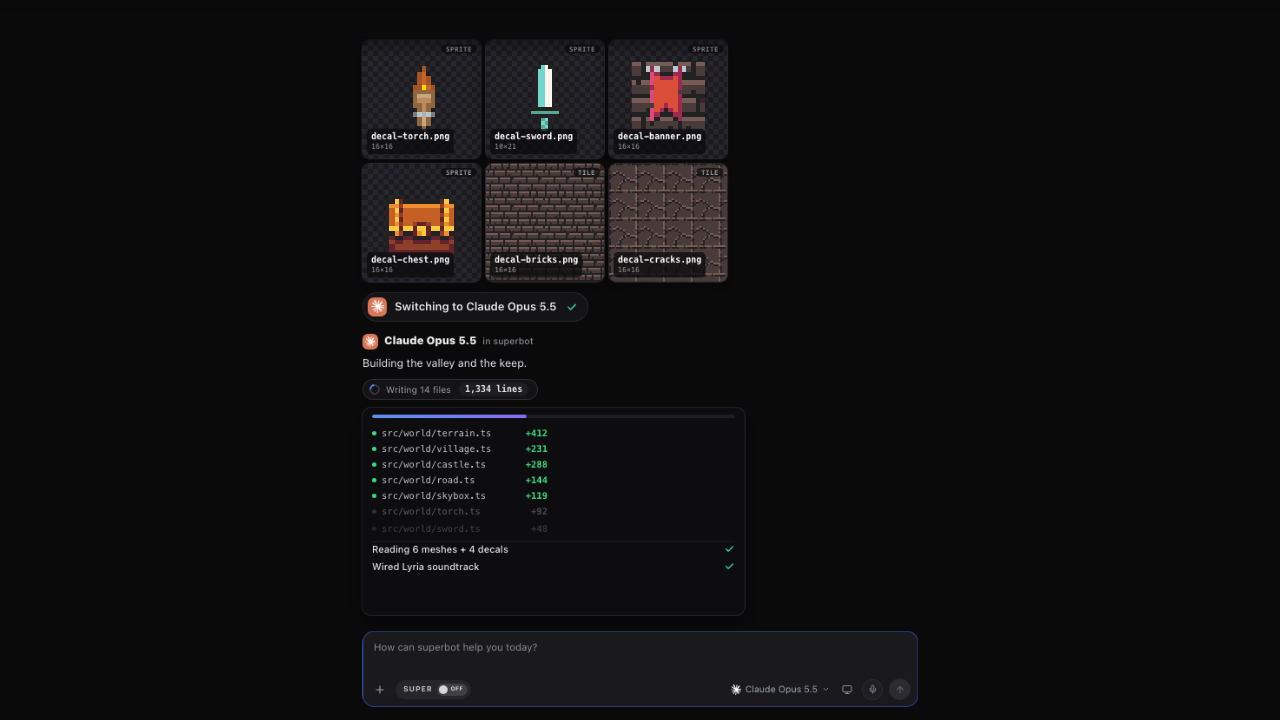
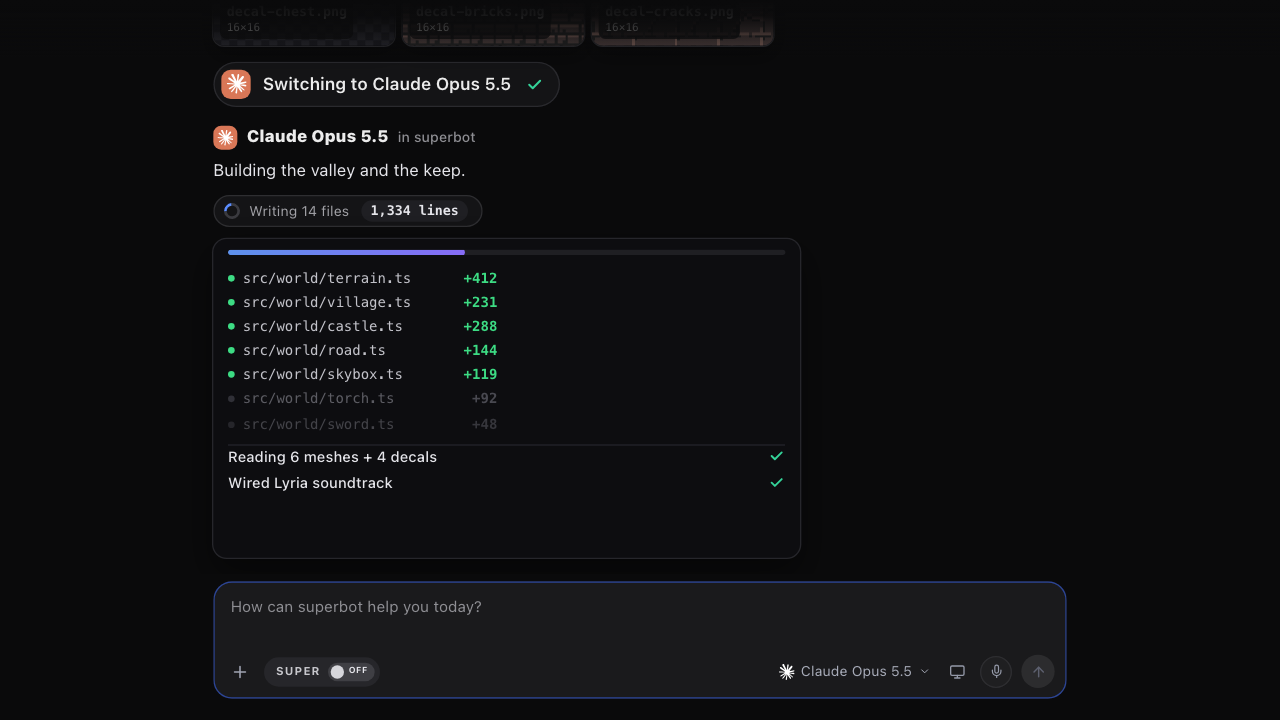
fantasy90s ad 042670d1: frame the thread like one-agent-full-degen (no empty sides), drop the switch zoom-ins

diff --git a/animations/fantasy90s-every-model-superbot-042670d1/scenes/tabs.js b/animations/fantasy90s-every-model-superbot-042670d1/scenes/tabs.js
@@ -5,29 +5,25 @@
 // (tabs-assets/chat.js, ?v=1..3 picks the routing). render(lt) is a pure function of local time. The scene keeps the id "tabs" so the hub's
 // generated stylesheets (scoped under #s-tabs) apply unchanged.
 import { hubMarkup } from './tabs-assets/hub-markup.js';
-import { mountChat, renderChat, switchPunch, BEATS, CHAT_T0, CHAT_END } from './tabs-assets/chat.js?v=13';
-import { clamp, lerp, seg, outCubic, inOutCubic } from '../lib.js';
+import { mountChat, renderChat, BEATS, CHAT_T0, CHAT_END } from './tabs-assets/chat.js?v=14';
+import { lerp, seg, outCubic, inOutCubic } from '../lib.js';
 
 const asset = (f) => new URL('./tabs-assets/' + f, import.meta.url).href;
 const H = 1080;
 const FIRST = BEATS[0].k;
-// the camera punch at each model switch: +20% zoom, leaning PUNCH_LEAN of the way to the routing chip column
-const PUNCH_AMP = 0.2, PUNCH_LEAN = 0.4;
 
 let el = null;
 
 // the design box: a thread-wide hub, scaled so it fills the frame width (narrow ratios keep a readable column)
 function geo(W) {
   if (el.geo && el.geo.W === W) return el.geo;
-  // pulled back far enough that every sent ask stays in frame through its whole answer (the DoorDash order is
-  // the tallest), so the thread lays out wider than the reference's 960
-  const DW = Math.max(560, Math.min(1480, W / 1.3));
+  // framed like one-agent-full-degen: the thread column fills the frame instead of floating in empty sides
+  const DW = Math.max(560, Math.min(960, W / 2));
   const k = W / DW, DH = H / k;
   el.site.style.width = DW + 'px';
   el.site.style.height = DH.toFixed(3) + 'px';
   el.site.style.setProperty('--dw', DW + 'px');
   el.geo = { W, DW, DH, k, lift: null };
-  if (el.chat) el.chat.refocus();  // the chip column moved with the design box
   return el.geo;
 }
 
@@ -80,18 +76,8 @@ export default {
     // camera: pushed in on the empty state, easing out once the thread starts
     // (a narrow column already fills the frame, so it pushes in less)
     const z0 = g.DW < 700 ? 1.08 : 1.2, z1 = g.DW < 700 ? 1.04 : 1.1;
-    const zBase = lerp(z0, z1, inOutCubic(seg(t, 0, CHAT_T0))) * lerp(1, 1 / z1, inOutCubic(seg(t, FIRST.send - 0.1, FIRST.send + 0.7)));
-    // on every model switch the camera punches in and glides back out (chat.js switchPunch). The pivot is a
-    // blend of the frame centre and the routing chip's column, clamped to the visible window, and slides down
-    // to the live bottom edge as the punch rises — so the newest message stays put and nothing is ever shown
-    // past the design box, while the older turns ride up and fade off the top (.ask-edge).
-    const punch = switchPunch(el.chat, t);
-    const z = zBase * (1 + PUNCH_AMP * punch);
-    const s = g.k * z, halfW = (W / 2) / s, halfH = (H / 2) / s;
-    const fx = el.chat.focus == null ? g.DW / 2 : el.chat.focus;
-    const px = clamp(lerp(g.DW / 2, fx, punch * PUNCH_LEAN), halfW, g.DW - halfW);
-    const py = clamp(lerp(g.DH / 2, g.DH - halfH, punch), halfH, g.DH - halfH);
-    el.site.style.transform = `translate(${(W / 2).toFixed(2)}px,${(H / 2).toFixed(2)}px) scale(${s.toFixed(5)}) translate(${(-px).toFixed(2)}px,${(-py).toFixed(2)}px)`;
+    const z = lerp(z0, z1, inOutCubic(seg(t, 0, CHAT_T0))) * lerp(1, 1 / z1, inOutCubic(seg(t, FIRST.send - 0.1, FIRST.send + 0.7)));
+    el.site.style.transform = `translate(${(W / 2).toFixed(2)}px,${H / 2}px) scale(${(g.k * z).toFixed(5)}) translate(${(-g.DW / 2).toFixed(2)}px,${(-g.DH / 2).toFixed(2)}px)`;
 
     // empty state -> thread: the composer glides down to the bottom and the greeting lifts away
     const drop = inOutCubic(seg(t, FIRST.send - 0.08, FIRST.send + 0.42));

diff --git a/animations/fantasy90s-every-model-superbot-042670d1/scenes/tabs-assets/chat.js b/animations/fantasy90s-every-model-superbot-042670d1/scenes/tabs-assets/chat.js
@@ -131,19 +131,6 @@ function timeBeats(asks) {
 export const BEATS = timeBeats(VARIANT);
 export const CHAT_END = BEATS[BEATS.length - 1].k.T.end + 0.2;
 
-// the camera punch (scenes/tabs.js) that emphasises every model switch: it eases in over the chip's own
-// resolve (PUNCH_IN), holds while the app answers, then glides back out from PUNCH_HOLD after the reply
-// until PUNCH_OUT later. A product of two clamped easings, so it is a pure, continuous function of t.
-export const PUNCH_IN = 0.32, PUNCH_HOLD = 0.15, PUNCH_OUT = 0.85;
-export function switchPunch(c, t) {
-  let amt = 0;
-  for (const p of c.punch) {
-    const a = inOutCubic(seg(t, p.sw, p.sw + PUNCH_IN)) * (1 - inOutCubic(seg(t, p.out, p.out + PUNCH_OUT)));
-    if (a > amt) amt = a;
-  }
-  return amt;
-}
-
 const SB_MARK = '<i class="sbm sbm-c"></i><i class="sbm sbm-m"></i><i class="sbm sbm-w"></i>';
 export const OK = '<svg class="qc-ok" viewBox="0 0 24 24"><path d="M5 12.5l4.5 4.5L19 7.5"/></svg>';
 const el = (html) => { const t = document.createElement('template'); t.innerHTML = html.trim(); return t.content.firstElementChild; };
@@ -189,20 +176,6 @@ export function mountChat(hub) {
   // scroll marks: after each time, the feed's fold glides to that element's bottom
   const scroll = beats.flatMap((b) => [...(b.u ? [[b.k.send, b.u]] : []), ...b.sws.map((s) => [s.c.sw, s.w]), [b.k.reply, b.who], ...b.inst.marks]).sort((x, y) => x[0] - y[0]);
 
-  // one camera punch per routing chip, released PUNCH_HOLD after the app answers (scenes/tabs.js reads both)
-  const punch = beats.flatMap((b) => b.sws.map((s) => ({ sw: s.c.sw, out: b.k.reply + PUNCH_HOLD })));
-  // the routing chip's column centre in the site's layout px, where the camera leans at each switch. Read
-  // through offsetParent, so the camera transform and the thread's scroll do not move it: a constant for
-  // one layout, which is what keeps the punch a pure function of t. refocus() reruns when the frame resizes.
-  const site = hub.closest('.sbsite');
-  const focusX = () => {
-    const chip = beats[0].sws[0] && beats[0].sws[0].sw;
-    if (!chip || !site) return null;
-    let x = 0, n = chip;
-    while (n && n !== site) { x += n.offsetLeft; n = n.offsetParent; }
-    return n === site ? x + chip.offsetWidth / 2 : null;
-  };
-
   // the composer's platform chip names the model, then follows the routed app
   const plat = hub.querySelector('.rc-plat');
   const cat = plat.querySelector('.rc-cat');
@@ -217,11 +190,10 @@ export function mountChat(hub) {
 
   const ph = hub.querySelector('.rc-ph');
   const chat = {
-    hub, pointer, feed, inner, beats, scroll, punch, focus: null, refocus() { chat.focus = focusX(); },
+    hub, pointer, feed, inner, beats, scroll,
     plat, pIcon, pImg, pMark, pLabel,
     ph, send: hub.querySelector('.rc-send'), phText: ph.textContent, lastPh: null, lastApp: 'codex',
   };
-  chat.refocus();
   return chat;
 }
 

diff --git a/animations/fantasy90s-every-model-superbot-042670d1/timeline.js b/animations/fantasy90s-every-model-superbot-042670d1/timeline.js
@@ -193,7 +193,7 @@ await Promise.all(sceneIds.map(async (id) => {
   css.rel = 'stylesheet'; css.href = new URL(`./scenes/${id}.css?v=12`, import.meta.url).href;
   document.head.appendChild(css);
   try {
-    const m = (await import(`./scenes/${id}.js?v=16`)).default;
+    const m = (await import(`./scenes/${id}.js?v=17`)).default;
     if (!m || typeof m.render !== 'function') throw new Error(`scenes/${id}.js has no default { dur, mount, render } export`);
     MODS[id] = m;
   } catch (err) {

diff --git a/animations/fantasy90s-every-model-superbot-042670d1/index.html b/animations/fantasy90s-every-model-superbot-042670d1/index.html
@@ -42,6 +42,6 @@
 
 <script src="../../assets/sb-mark-live.js"></script>
 <script src="recorder.js"></script>
-<script type="module" src="timeline.js?v=16"></script>
+<script type="module" src="timeline.js?v=17"></script>
 </body>
 </html>
